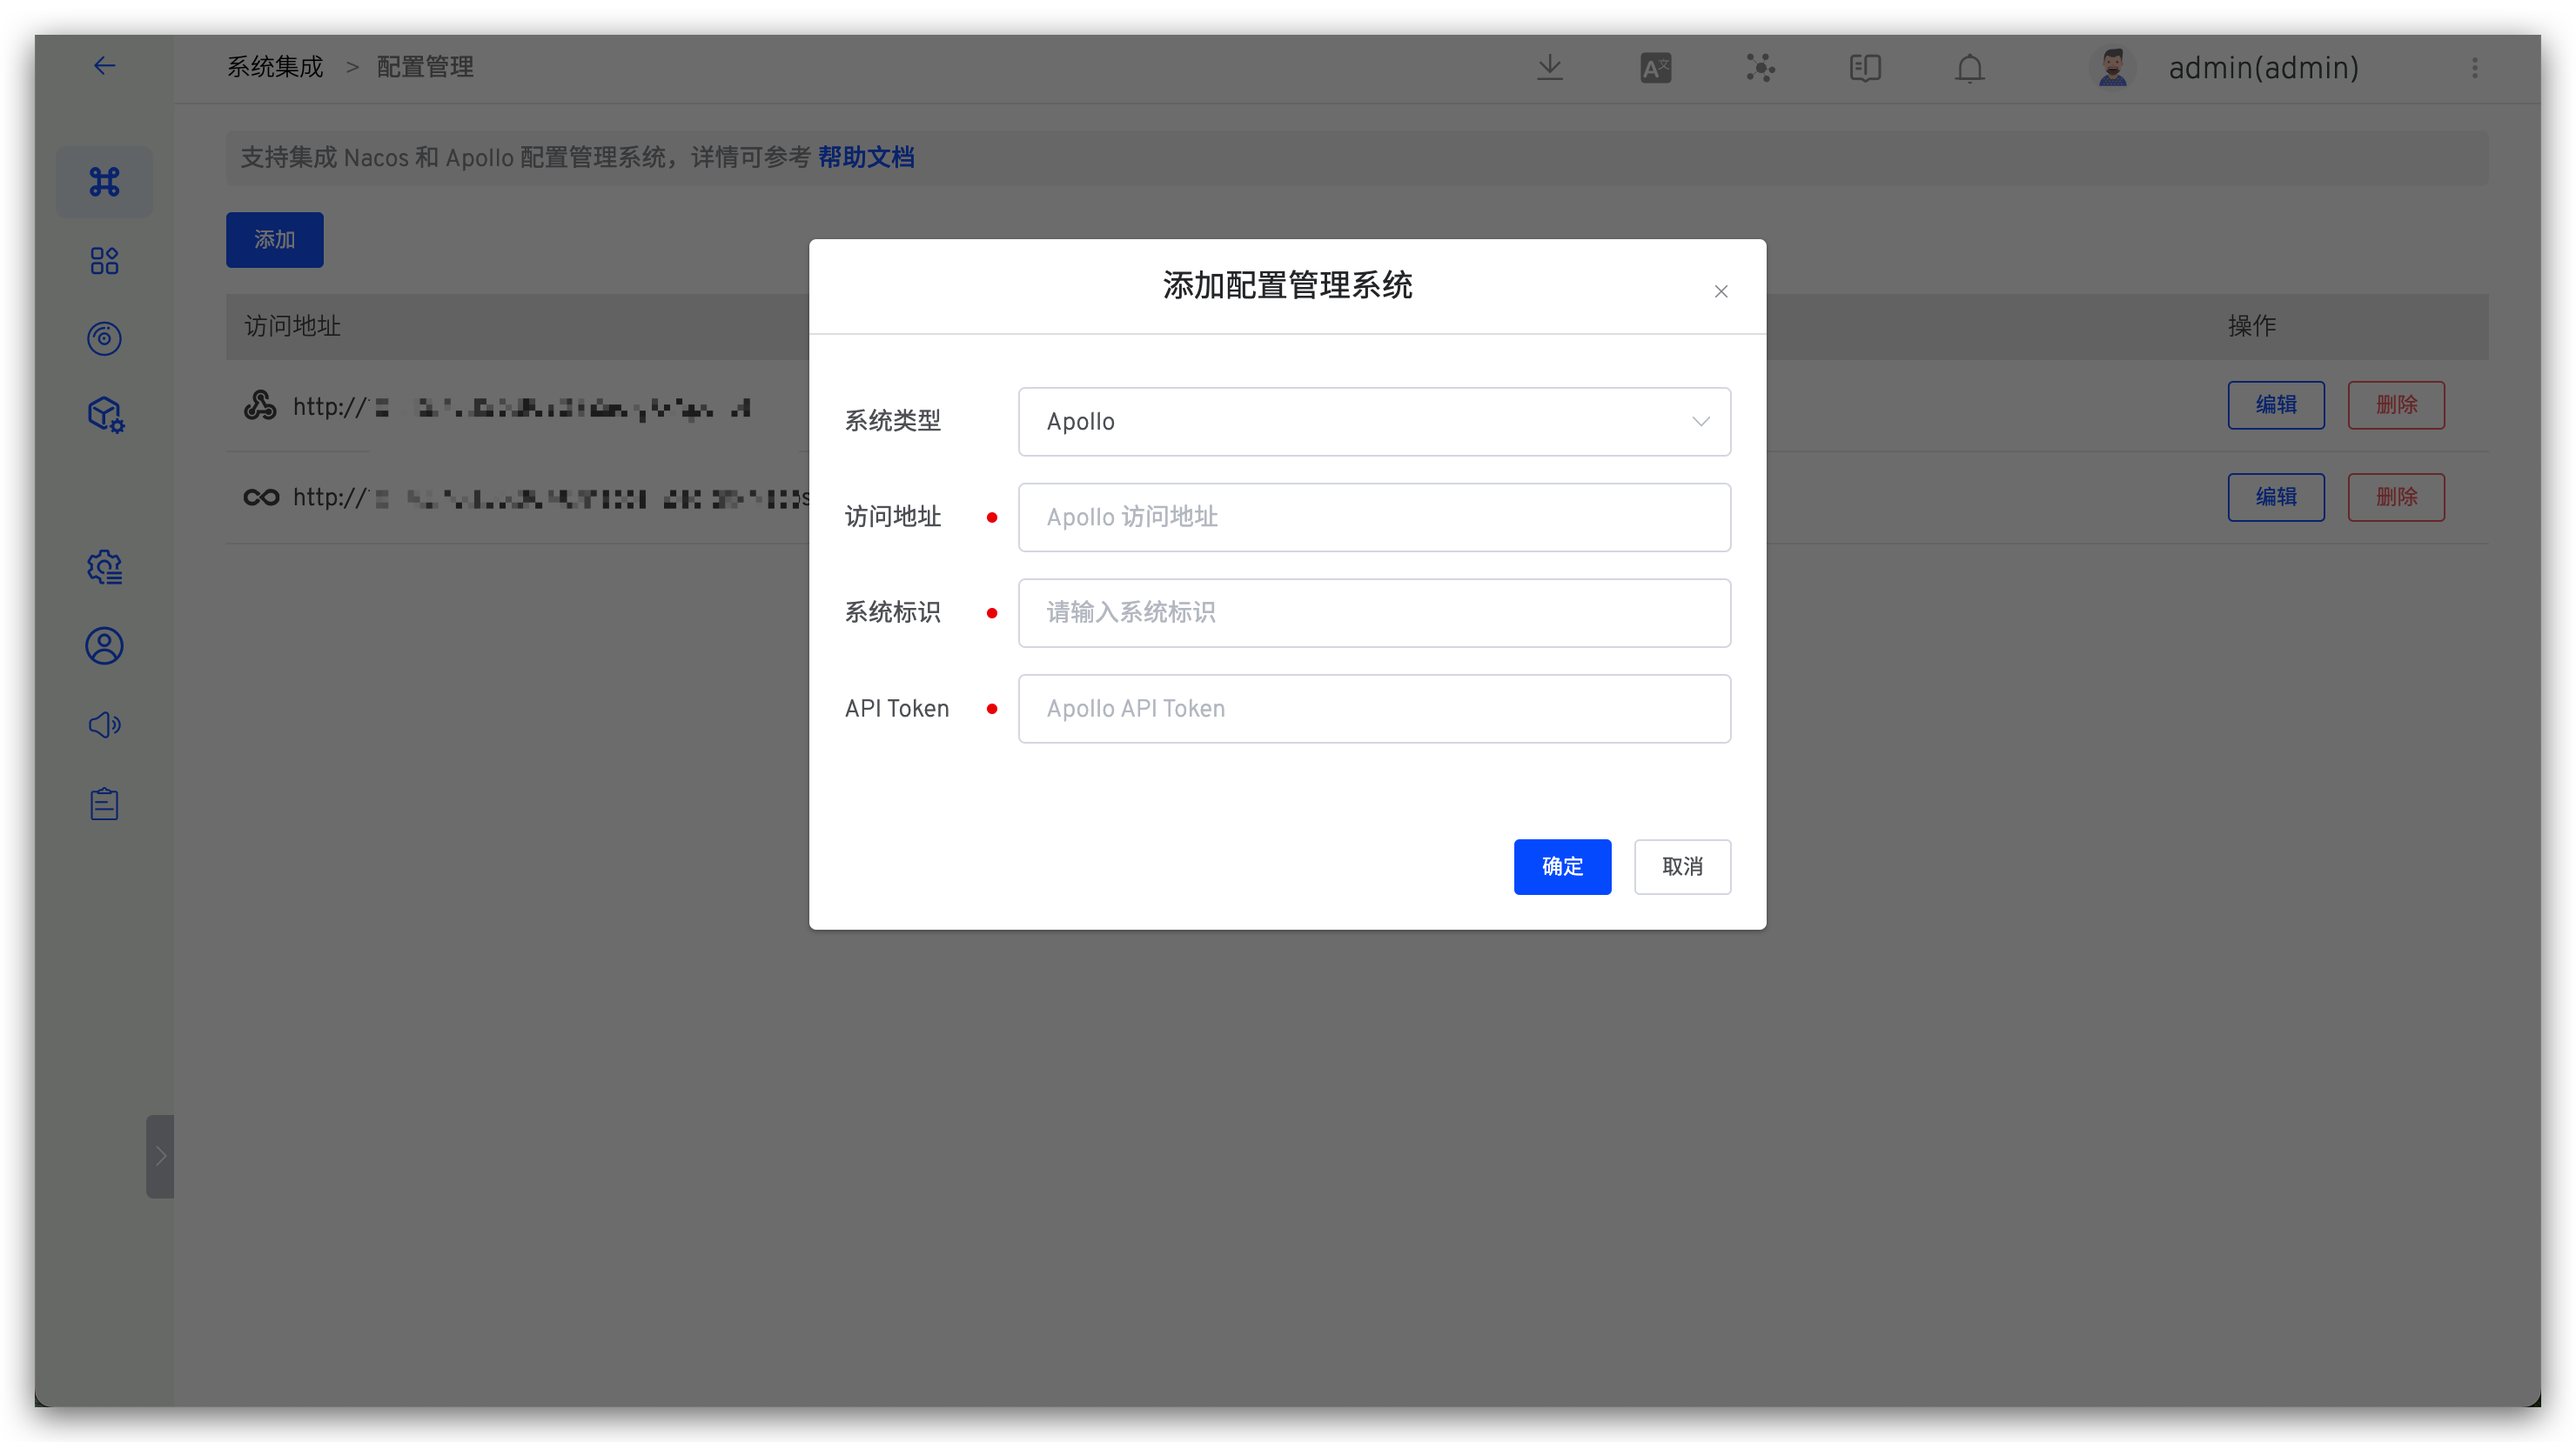
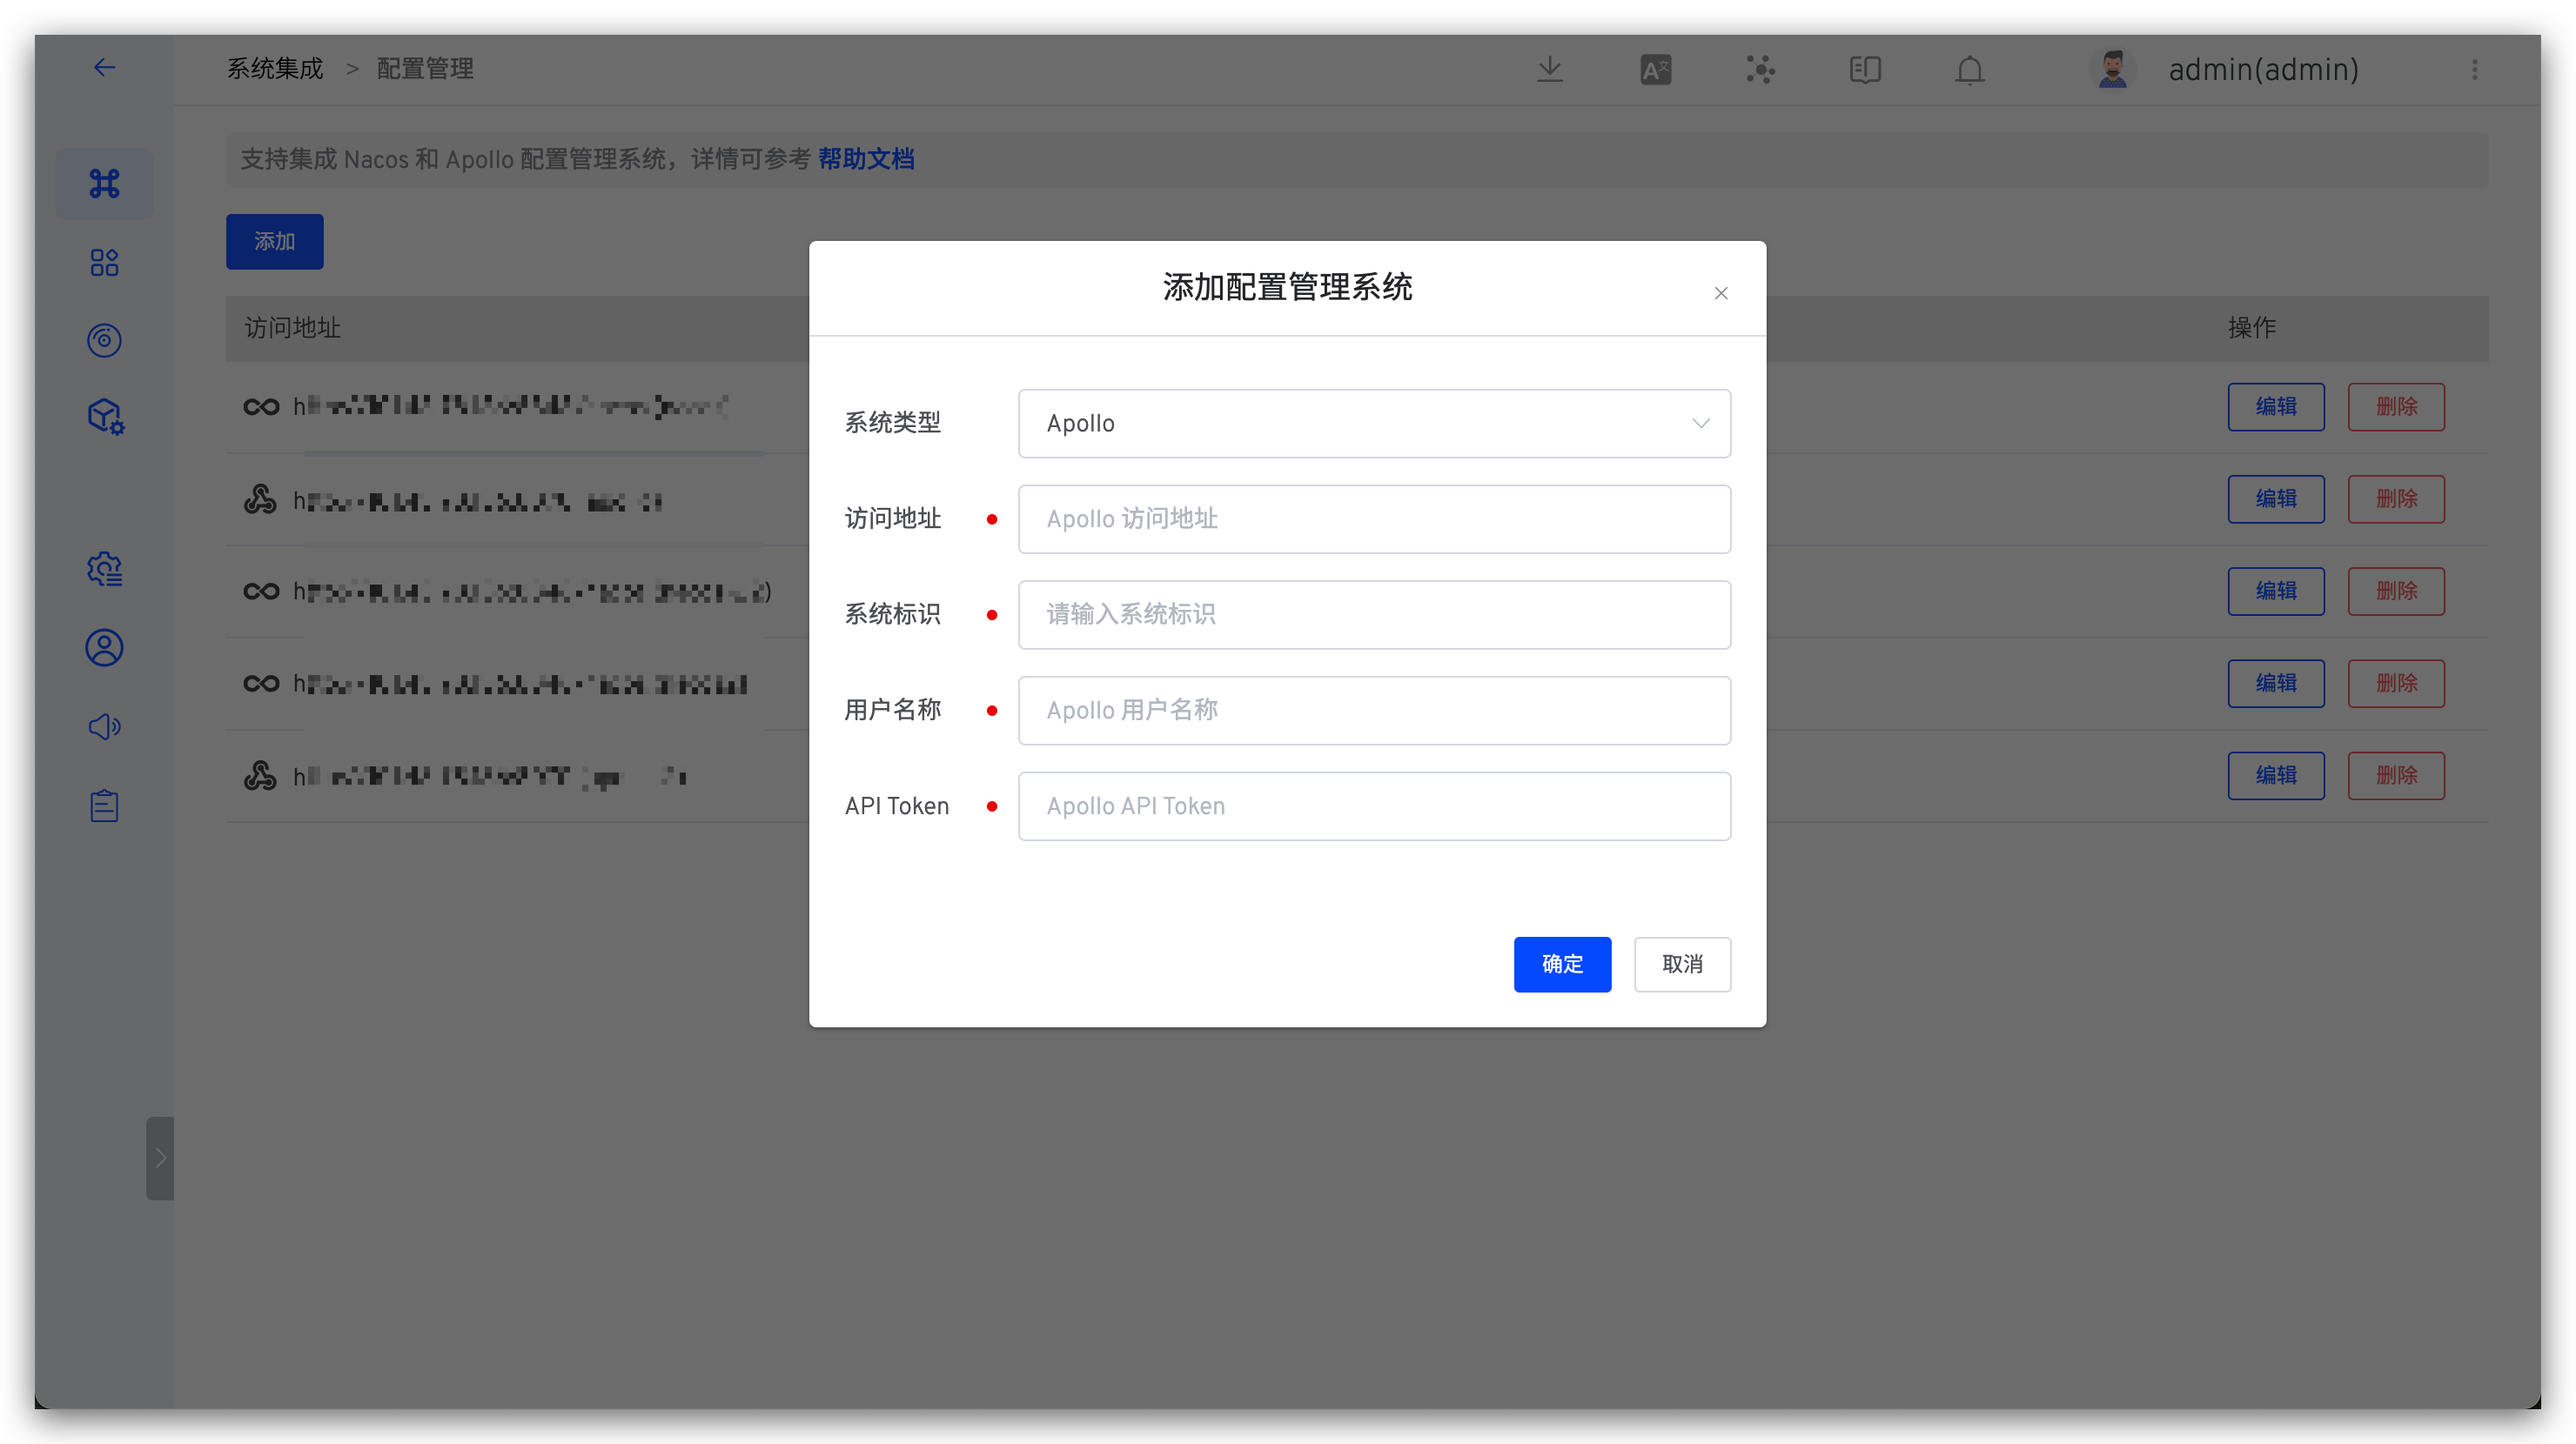
apollo integration update

diff --git a/ZadigX dev/05.功能介绍/22.集成管理/03.配置系统/00.Apollo.md b/ZadigX dev/05.功能介绍/22.集成管理/03.配置系统/00.Apollo.md
@@ -8,16 +8,7 @@ permalink: /ZadigX dev/settings/configsystem/apollo/
 
 ## 如何接入
 
-### 第一步：添加 Apollo 账号
-打开 Apollo，进入 `管理员工具` ->`用户管理`，填写信息，完成用户创建。
-
-::: tip 注意事项
-用户登录账户命名为 `zadig`。
-:::
-
-![Apollo配置](../../../../_images/apollo_account_01.png)
-
-### 第二步：在 Apollo 中创建第三方应用
+### 第一步：在 Apollo 中创建第三方应用
 进入 `管理员工具` ->`开放平台授权管理`，填写信息，完成第三方应用创建。
 
 ![Apollo配置](../../../../_images/apollo_config_01.png)
@@ -26,7 +17,7 @@ permalink: /ZadigX dev/settings/configsystem/apollo/
 
 ![配置管理](../../../../_images/apollo_config_02.png)
 
-### 第三步：在 ZadigX 中集成 Apollo
+### 第二步：在 ZadigX 中集成 Apollo
 访问 `系统设置`-> `系统集成` -> `配置管理`，添加 Apollo 配置并通过系统连通性校验即可。
 
 ![Apollo配置](../../../../_images/apollo_config_03.png)
@@ -36,6 +27,7 @@ permalink: /ZadigX dev/settings/configsystem/apollo/
 - `系统类型`：选择 `Apollo`
 - `访问地址`：企业内部 Apollo 系统的地址，比如：`https://apollo.koderover.com`
 - `系统标识`：自定义，方便在 ZadigX 系统中快速识别，系统标识信息需唯一
+- `用户名称`：Apollo 系统中存在的用户，用于和 ZadigX 系统交互
 - `API Token`：第二步中复制的 Token
 
 ## 如何使用
